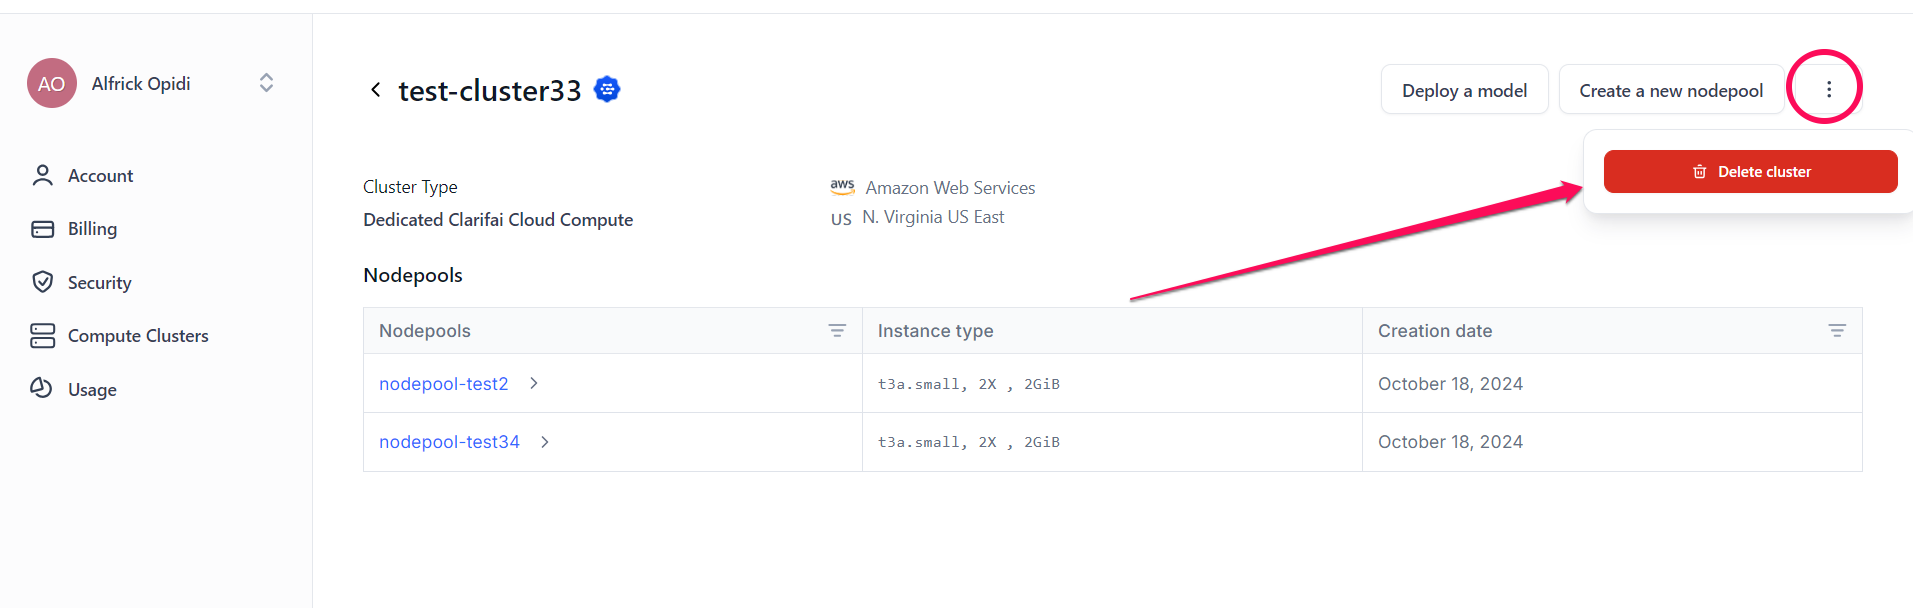
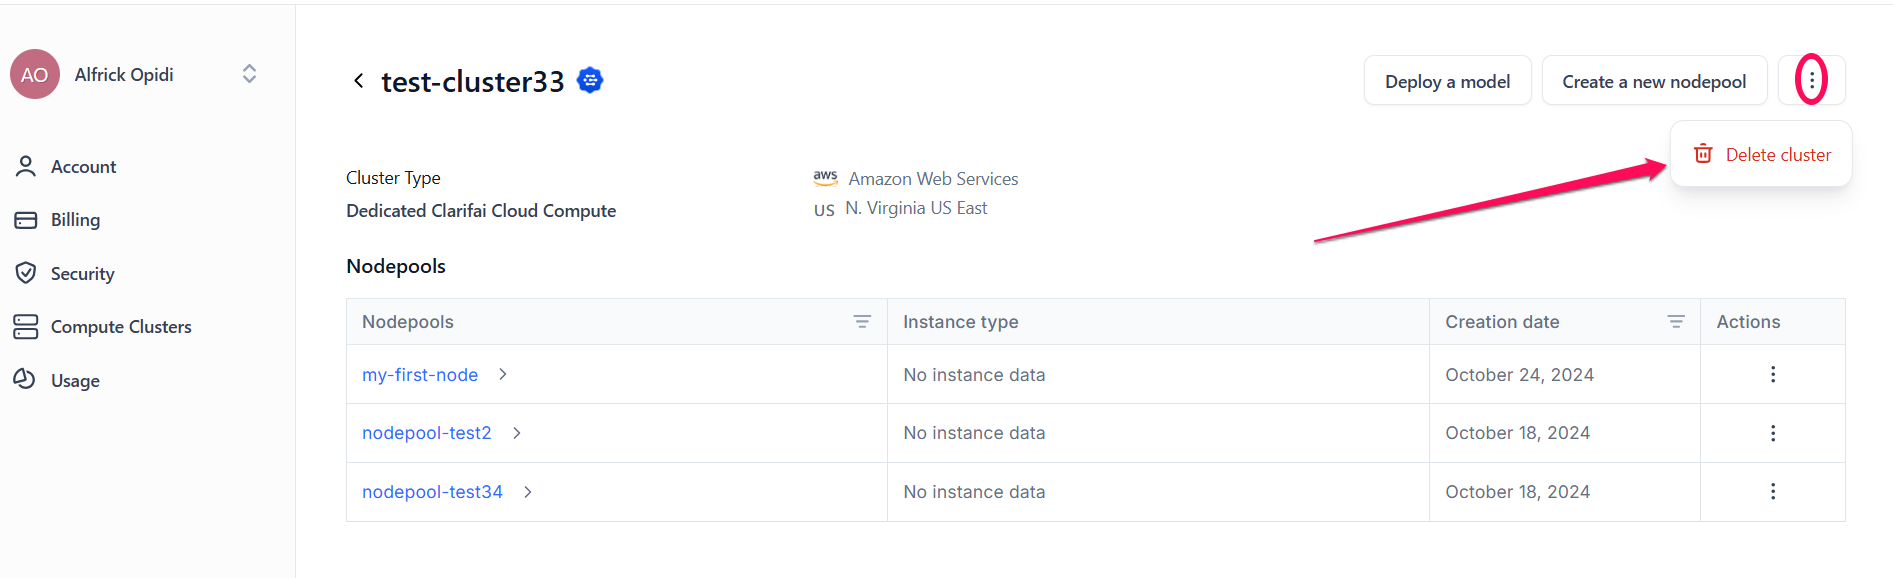
published CC and CO docs

diff --git a/docs/portal-guide/control-center/usage-dashboard.md b/docs/portal-guide/control-center/usage-dashboard.md
@@ -1,6 +1,5 @@
 ---
 description: Get detailed insights into your consumption of the Clarifai platform
-pagination_next: null
 sidebar_position: 1
 ---
 
@@ -9,7 +8,7 @@ sidebar_position: 1
 **Get detailed insights into your consumption of the Clarifai platform**
 <hr />
 
-The Usage Dashboard is the main page that provides detailed insights into your consumption of the Clarifai platform. It offers metrics, charts, and reports that allow you to monitor usage patterns, track performance, and optimize resource allocation. 
+The Usage & Operations is the main page that provides detailed insights into your consumption of the Clarifai platform. It offers metrics, charts, and reports that allow you to monitor usage patterns, track performance, and optimize resource allocation. 
 
 To access it, go to the Control Center and select the **Usage & Operations** tab in the collapsible left sidebar. 
 
@@ -17,13 +16,13 @@ To access it, go to the Control Center and select the **Usage & Operations** tab
 
 :::tip date range
 
-You can use the date range control in the upper-right corner of the page to filter and view data for specific time periods. After selecting a date range, the output of the Usage Dashboard will be based on the selected period. You can learn more about the feature [here](https://docs.clarifai.com/portal-guide/control-center/#date-ranges).
+You can use the date range control in the upper-right corner of the page to filter and view data for specific time periods. After selecting a date range, the output of the page will be based on the selected period. You can learn more about the feature [here](https://docs.clarifai.com/portal-guide/control-center/#date-ranges).
 
 :::
 
 ## Overview
 
-The overview section of the Usage Dashboard gives you a quick analysis of how you used the Clarifai platform during the selected period. 
+The overview section of the Usage & Operations page gives you a quick analysis of how you used the Clarifai platform during the selected period. 
 
 It tells you:
 
@@ -33,25 +32,25 @@ It tells you:
 - The total training hours of your [transfer learning](https://docs.clarifai.com/portal-guide/model/model-types/transfer-learning) models
 - The total training hours of your [deep train](https://docs.clarifai.com/portal-guide/model/deep-training/) models
 
-Let’s talk about the different elements of the Usage Dashboard.
+Let’s talk about the different elements of the page.
 
 ## Charts
 
-The Usage Dashboard has several charts that help you visualize your utilization of our platform during a selected period. 
+The Usage & Operations page has several charts that help you visualize your utilization of our platform during a selected period. 
 
 Let’s talk about some functionalities that are common across the charts.
 
 ![](/img/community/control-center/control_center_7_1.png)
 
-- **Drag charts** — You can easily drag a chart up and down within the page by clicking and holding the dots in its upper-left corner. This allows you to customize the layout and manage the charts that appear in the Usage Dashboard. 
+- **Drag charts** — You can easily drag a chart up and down within the page by clicking and holding the dots in its upper-left corner. This allows you to customize the layout and manage the charts that appear in the page. 
 
-- **Pin icon** — The pin icon allows you to "pin" or "save" charts for quick access. If you click it, the chart will be displayed in the Overview section within the Control Center. This ensures that it remains easily accessible in the Control Center. If the pin icon is highlighted in the Usage Dashboard, it indicates that the respective chart has already been saved to the Overview section.
+- **Pin icon** — The pin icon allows you to "pin" or "save" charts for quick access. If you click it, the chart will be displayed in the Overview section within the Control Center. This ensures that it remains easily accessible in the Control Center. If the pin icon is highlighted in the Usage & Operations page, it indicates that the respective chart has already been saved to the Overview section.
 
 - **Change chart display** — You can choose to display the type of chart you want by clicking its icon in the upper-right corner —  a bar chart, a line graph, a donut chart, or any other chart available.
 
 - **Tooltip** — If you hover over a chart, a tooltip is displayed, which shows the exact number of different actions performed for that particular date. In the tooltip, the type of action that is currently hovered over is highlighted, allowing you to easily identify which item is in focus. 
 
-- **Color-coding** — Each type of task in the charts within the Usage Dashboard is represented by its own distinct color. This color-coding provides a clear visual distinction between the types of activities, making it easier for users to track and compare their trends across the displayed dates.
+- **Color-coding** — Each type of task in the charts within the page is represented by its own distinct color. This color-coding provides a clear visual distinction between the types of activities, making it easier for users to track and compare their trends across the displayed dates.
 
 ### View Report Details
 
@@ -63,7 +62,7 @@ The table in the page includes the date each activity was performed and features
 
 ![](/img/community/control-center/control_center_9.png)
 
-After viewing the detailed report, you can go back to the Usage Dashboard page by clicking the **Back** button in the upper-left corner. 
+After viewing the detailed report, you can go back to the Usage & Operations page by clicking the **Back** button in the upper-left corner. 
 
 ## Total Number of Operations
 

diff --git a/docs/portal-guide/control-center/costs-budget.md b/docs/portal-guide/control-center/costs-budget.md
@@ -1,0 +1,85 @@
+---
+description: Get detailed financial data about your operations
+pagination_next: null
+sidebar_position: 2
+---
+
+# Costs & Budget Tab
+
+**Get detailed financial data about your operations**
+<hr />
+
+The Costs & Budget page provides detailed insights into the financial data of self-service users, enabling them to easily view and monitor the costs associated with their billable operations on our platform. It simplifies expense tracking and management, offering users with greater control over their spending.
+
+To access it, go to the Control Center and select the Costs & Budget tab in the collapsible left sidebar.
+
+![](/img/community/control-center/costs_budget_1.png)
+
+:::tip date range
+
+You can use the date range control in the upper-right corner of the page to filter and view data for specific time periods. After selecting a date range, the output of the Costs & Budget page will be based on the selected period. You can learn more about the feature [here](https://docs.clarifai.com/portal-guide/control-center/#date-ranges).
+
+:::
+
+## Overview
+
+The overview section of the Costs & Budget page provides a quick analysis of your total expenses on the Clarifai platform for the selected time period.
+
+It tells you:
+
+- The total costs of all billable operations
+- The total costs of model predictions
+- The total costs of training transfer learning models
+- The total costs of training deep training models
+- The total costs of search operations
+- The total costs of storing inputs
+
+## Charts
+
+The Costs & Budget page has interactive charts that help you visualize your expenses on the Clarifai platform for the selected period. 
+
+Some of the key functionalities include the ability to drag charts, pin your favorites, switch between different chart types, and use tooltips for detailed insights. 
+
+![](/img/community/control-center/costs_budget_2.png)
+
+If you click the **View Report Details** button in the lower-right corner of a chart, you’ll be redirected to a detailed report page. Here, you'll find a comprehensive breakdown of each cost type for the selected period, with options to filter charts by specific costs. The page also includes a table that displays the date each expense was incurred, along with other detailed insights. 
+
+![](/img/community/control-center/costs_budget_3.png)
+
+[Click here](https://docs.clarifai.com/portal-guide/control-center/usage-dashboard#charts) to learn more about using these chart features.
+
+## Total Costs
+
+This section displays the total costs of all your billable operations, along with the average daily cost, during the selected time period. 
+
+![](/img/community/control-center/costs_budget_4.png)
+
+## Training Cost
+
+This section displays the total cost of training your [deep training](https://docs.clarifai.com/portal-guide/model/deep-training/) and [transfer learning](https://docs.clarifai.com/portal-guide/model/model-types/transfer-learning) models, along with the average daily cost, during the selected time period. 
+
+![](/img/community/control-center/costs_budget_5.png)
+
+## Model Predictions Cost by Type and Date
+
+This section displays the total cost of all your model predictions, split by type and date, along with the average daily cost, during the selected time period. 
+
+![](/img/community/control-center/costs_budget_6.png)
+
+## Model Predictions Cost by ID and Date
+
+This section displays the total cost of all your model predictions, split by model ID and date, along with the average daily cost, during the selected time period. 
+
+![](/img/community/control-center/costs_budget_7.png)
+
+## Cost of Operations
+
+This section displays the total cost of all your operations that consist of model predictions and search operations, along with the average daily cost, during the selected time period. 
+
+![](/img/community/control-center/costs_budget_8.png)
+
+## Stored Inputs Cost
+
+This section displays the total cost of storing inputs on our platform during the selected time period. 
+
+![](/img/community/control-center/costs_budget_9.png)

diff --git a/docs/product-updates/changelog/release1010.md b/docs/product-updates/changelog/release1010.md
@@ -30,7 +30,7 @@ We have a public roadmap that gives you a view of our upcoming plans and helps u
 
 |Status                                |Change                  |Details                    |
 |--------------------------------------|------------------------|---------------------------|
-| ![new-feature](/img/new_feature.jpg) <br/> **(Private Preview)**  | Released Compute Orchestration  | <ul> <li> Clarifai’s new Compute Orchestration system provides you with an efficient way to deploy inference workloads on any compute, in any bare metal, or cloud environment. </li><li> This feature is currently in [Private Preview](https://docs.clarifai.com/product-updates/changelog/release-types). To request access, please contact us or sign up [here](https://forms.gle/Cj9r8wgeYk5HQ67Y9).</li> </ul>  |   
+| ![new-feature](/img/new_feature.jpg) <br/> **(Private Preview)**  | Released Compute Orchestration  | <ul> <li> Clarifai’s new Compute Orchestration system provides you with an efficient way to deploy inference workloads on any compute, in any bare metal, or cloud environment. </li><li> This feature is currently in [Private Preview](https://docs.clarifai.com/product-updates/changelog/release-types). To request access, please contact us or sign up [here](https://forms.gle/Cj9r8wgeYk5HQ67Y9).</li>  <li> Learn more about it [here](https://docs.clarifai.com/portal-guide/compute-orchestration/). </li> </ul>  |   
 
 ## PATs and API Keys
 
@@ -48,7 +48,7 @@ We have a public roadmap that gives you a view of our upcoming plans and helps u
 
 |Status                                |Change                  |Details                    |
 |--------------------------------------|------------------------|---------------------------|
-| ![improvement](/img/improvement.jpg) | Added a Costs & Budget tab for finances in the [Control Center](https://docs.clarifai.com/portal-guide/control-center/)| <ul> <li> Added a new tab to display users' financial data. It displays the costs of your billed operations, making it easier to track and manage expenses on the platform. </li></ul>  |  
+| ![improvement](/img/improvement.jpg) | Added a [Costs & Budget tab](https://docs.clarifai.com/portal-guide/control-center/costs-budget) for finances in the Control Center | <ul> <li> Added a new tab to display users' financial data. It displays the costs of your billed operations, making it easier to track and manage expenses on the platform. </li></ul>  |  
 | ![improvement](/img/improvement.jpg) | Made other improvements | <ul> <li> Restricted the 'Upgrade your plan' button to display only for users on the Community plan with personal accounts. </li> <li> Added comma delimiters to numbers in the thousands for increased readability, e.g., displaying 78,755,432 instead of 78755432.  </li></ul>  |  
 |![bug](/img/bug.jpg) | Fixed various bugs in the Control Center| <ul>  <li> Fixed an issue where filtering data for the last 6 months using the calendar widget triggered a toast notification error: “Failed to retrieve model versions.” </li> <li>Fixed an issue that led to this error: “Unable to find app while trying to locate embed model version from workflow.” </li>  <li>  Fixed an issue where changing the chart type would reset any applied filters. Selected filters now remain intact when switching chart types.</li> <li> Fixed an issue on the Report Details page where clicking the 'Back' button would always redirect to the Overview section. It now correctly navigates to the user's previous page. </li> <li> Fixed an issue where the selected period in a chart would start a day earlier than the specified date. A displayed chart now accurately reflects the selected start date.  </li> </ul>  | 
 

diff --git a/docs/portal-guide/compute-orchestration/manage-compute.md b/docs/portal-guide/compute-orchestration/manage-compute.md
@@ -1,0 +1,66 @@
+---
+description: Edit and delete your clusters and nodepools
+sidebar_position: 3
+pagination_next: null
+---
+
+# Managing Your Compute
+
+**Edit and delete your nodepools and clusters**
+<hr />
+
+:::note
+
+Compute Orchestration is currently in [private preview](https://docs.clarifai.com/product-updates/changelog/release-types). To request access, please contact us or sign up [here](https://forms.gle/Cj9r8wgeYk5HQ67Y9).
+
+:::
+
+You can eficiently manage your nodepools and clusters within the Clarifai's platform to optimize performance and costs. You can edit configurations, adjust resource allocations, or delete existing compute infrastructure as your workload requirements change. 
+
+This flexibility allows you to fine-tune your compute environment for tasks like model training, inference, and scaling workflows.
+
+## How to Edit a Nodepool
+
+If you want to edit a nodepool for any reason, go to the cluster viewer page and click the three vertical dots at the end of the row where the nodepool is listed.
+
+Then, select the **Edit Nodepool** option from the drop-down menu that appears. You'll be redirected to a page where you can modify the configurations for your nodepool. 
+
+![ ](/img/compute-orchestration/compute-17.png)
+
+Or, you can edit a nodepool by going to its individual page and clicking the **Edit Pool** button in the upper-right corner. 
+
+![ ](/img/compute-orchestration/compute-18.png)
+
+## How to Delete a Nodepool
+
+If you want to delete a nodepool, go to the cluster viewer page and click the three vertical dots at the end of the row where the nodepool is listed.
+
+Then, select the **Delete Nodepool** option from the drop-down menu that appears. 
+
+![ ](/img/compute-orchestration/compute-19.png)
+
+A pop-up window will appear, asking you to confirm your decision. Note that deleting a nodepool will also delete the model deployments associated with it. So, you may reassign the deployments to a different nodepool if you want to continue using them.
+
+![ ](/img/compute-orchestration/compute-19-1.png)
+
+Click the **Delete** button to permanently delete the nodepool.
+
+Or, you can delete a nodepool by going to its individual page and clicking the three vertical dots in the upper-right corner.
+
+Then, click the **Delete nodepool** button that appears.
+
+![ ](/img/compute-orchestration/compute-20.png)
+
+## How to Delete a Cluster
+
+If you want to delete a cluster, go to its individual page and click the three vertical dots in the upper-right corner. 
+
+Then, click the **Delete cluster** button that appears.
+
+![ ](/img/compute-orchestration/compute-5.png)
+
+A pop-up window will appear, asking you to confirm your decision. Note that deleting a cluster will also delete the nodepools associated with it. So, you may reassign the nodepools to a different cluster if you want to continue using them. 
+
+Click the **Delete** button to permanently delete the cluster. 
+
+![ ](/img/compute-orchestration/compute-6.png)

diff --git a/docs/portal-guide/compute-orchestration/deploy-model.md b/docs/portal-guide/compute-orchestration/deploy-model.md
@@ -1,7 +1,6 @@
 ---
 description: Deploy any model anywhere, at any scale
 sidebar_position: 2
-pagination_next: null
 ---
 
 # How to Deploy a Model
